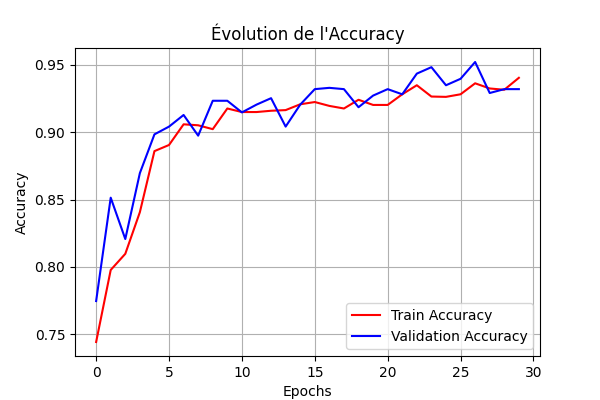
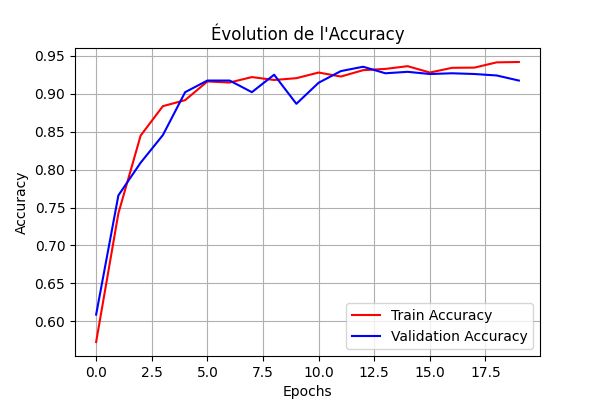
Ajout de class_weight dans la fonction entrainer_modele

diff --git a/main.py b/main.py
@@ -256,6 +256,9 @@ def compiler_modele(model):
 def entrainer_modele(model,train_gen,val_gen):
     print("\n....Debut de l'entrainement")
 
+    class_weight={0:1.945,1:0.673}
+    # On ajoute ici class_weight pour resoudre le probleme de la desequilibre du dataset trainning
+
     checkpoint = ModelCheckpoint(
     'meilleur_modele.keras',
     monitor='val_accuracy',
@@ -277,7 +280,8 @@ def entrainer_modele(model,train_gen,val_gen):
     validation_data=val_gen,
     epochs=30,
     callbacks=[checkpoint, early_stop],
-    verbose=1
+    verbose=1,
+    class_weight=class_weight
 )
     
     print("\n....Fin de l'entrainement")
@@ -303,8 +307,9 @@ plt.legend()
 plt.grid(True)
 plt.savefig("Courbe_accuracy.png")
 plt.show()
-
+"""
 # Courbe de la loss
+"""
 plt.figure(figsize=(6, 4))
 plt.plot(history.history['loss'], label='Train Loss', color='red')
 plt.plot(history.history['val_loss'], label='Validation Loss', color='green')
@@ -338,6 +343,7 @@ VAL_DIR = 'data/val'
 
 
 #b) Test 
+
 from tensorflow.keras.models import load_model
 
 print("\n...Debut des test")
@@ -353,12 +359,15 @@ test_gen=test_datagen.flow_from_directory(
     class_mode="binary",
     shuffle=False   
 )
+
 # Evaluer le modele
+
 test_loss, test_accuracy=model.evaluate(test_gen)
 
 print("\nResultat sur les premieres test du model")
 print(f"\nLa perte (loss):{test_loss:.4f}")
 print(f"\nLa precision (accuracy):{test_accuracy*100:.2f}")
+
 
 # Faire des prediction
 
@@ -370,6 +379,7 @@ y_tru=test_gen.classes
 
 print("la taille de y_pred", len(y_pred))
 print("la taille de y_tru", len(y_tru))
+
 
 # Un peu stats
 

diff --git a/desequilibre_de_dataset_train.md b/desequilibre_de_dataset_train.md
@@ -1,0 +1,66 @@
+
+1⃣ Contexte
+
+Le dataset présente un déséquilibre marqué :
+
+Normal : 1341 images (≈26 %)
+
+Pneumonia : 3875 images (≈74 %)
+
+Le modèle CNN entraîné initialement montrait un fort biais vers Pneumonia, avec un recall faible pour Normal (0.46), ce qui est problématique dans un contexte médical.
+
+2⃣ Méthode appliquée
+
+Pour corriger le déséquilibre, j'ai utilisé :
+
+class_weight : pondération de la loss par classe.
+
+Normal=1.945,Pneumonia=0.673
+
+
+Architecture CNN inchangée.
+
+L’objectif : améliorer la reconnaissance de la classe minoritaire (Normal) sans détériorer la performance de Pneumonia.
+
+3⃣ Résultats apres ajout de class_weight
+
+Rapport de classification :
+              precision    recall  f1-score   support
+
+      Normal       0.93      0.71      0.80       234
+   Pneumonia       0.85      0.97      0.90       390
+
+    accuracy                           0.87       624
+   macro avg       0.89      0.84      0.85       624
+weighted avg       0.88      0.87      0.87       624
+
+# Avant j'ai cette sortie 
+Rapport de classification :
+              precision    recall  f1-score   support
+
+      Normal       0.96      0.46      0.62       234
+   Pneumonia       0.75      0.99      0.85       390
+
+    accuracy                           0.79       624
+   macro avg       0.85      0.72      0.74       624
+weighted avg       0.83      0.79      0.77       624
+
+Observations clés :
+
+Recall Normal est passé de 0.46 → 0.71, ce qui montre que le modèle identifie beaucoup mieux les patients sains.
+
+Performance de Pneumonia stable : le modèle continue de détecter correctement la classe majoritaire.
+
+Accuracy globale améliorée (0.79 → 0.87).
+
+4⃣ Conclusion
+
+L’utilisation de class_weight a permis de :
+
+Corriger le biais du modèle envers la classe majoritaire.
+
+Améliorer significativement la reconnaissance de la classe minoritaire (Normal), ce qui est crucial en milieu médical.
+
+Maintenir une performance élevée sur Pneumonia, assurant un équilibre entre précision et rappel.
+
+Le modèle est désormais plus fiable pour un usage clinique, minimisant les faux négatifs pour les patients sains tout en conservant une forte détection des Pneumonia.
